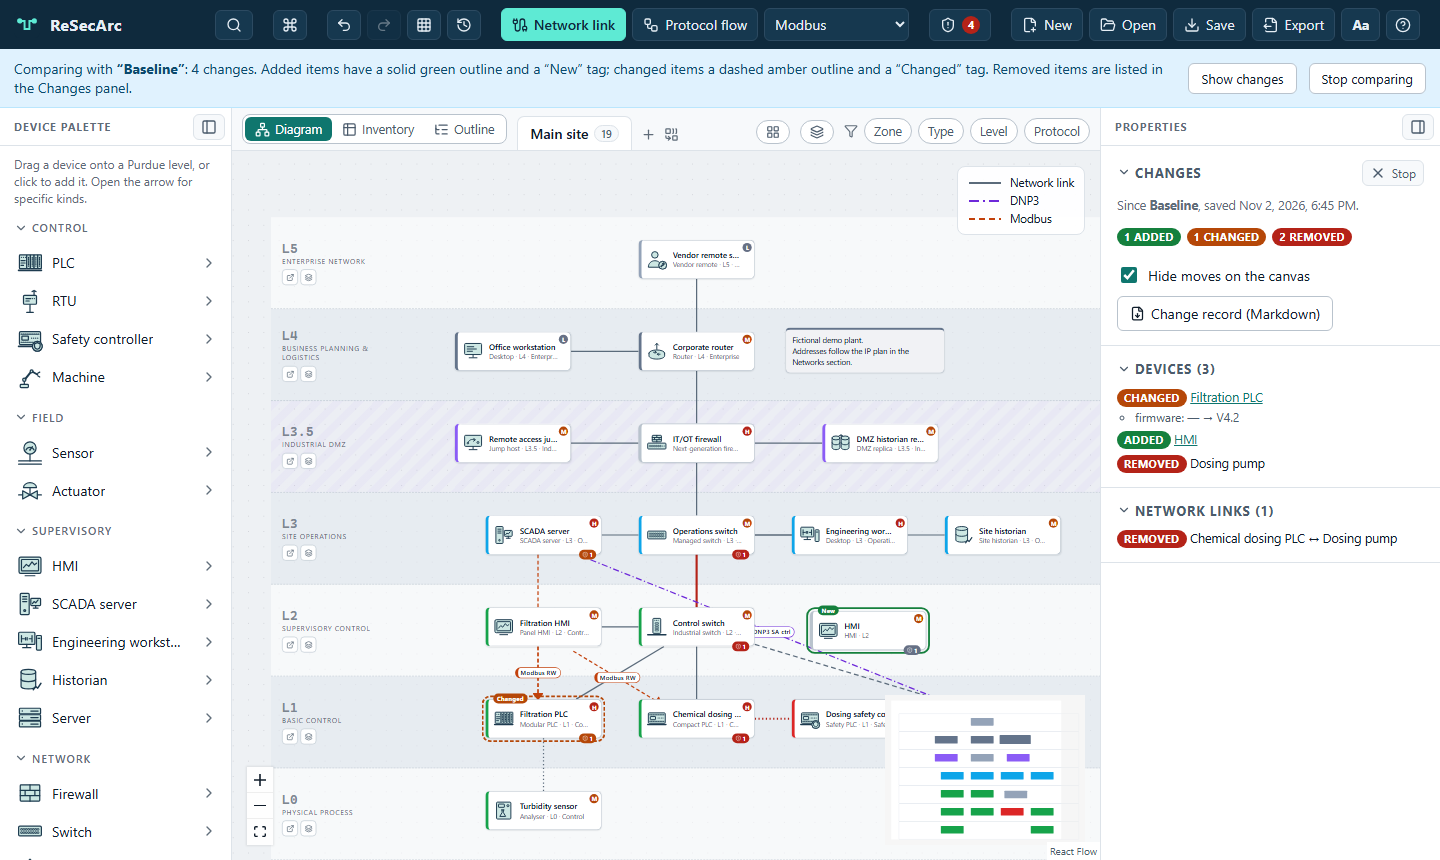
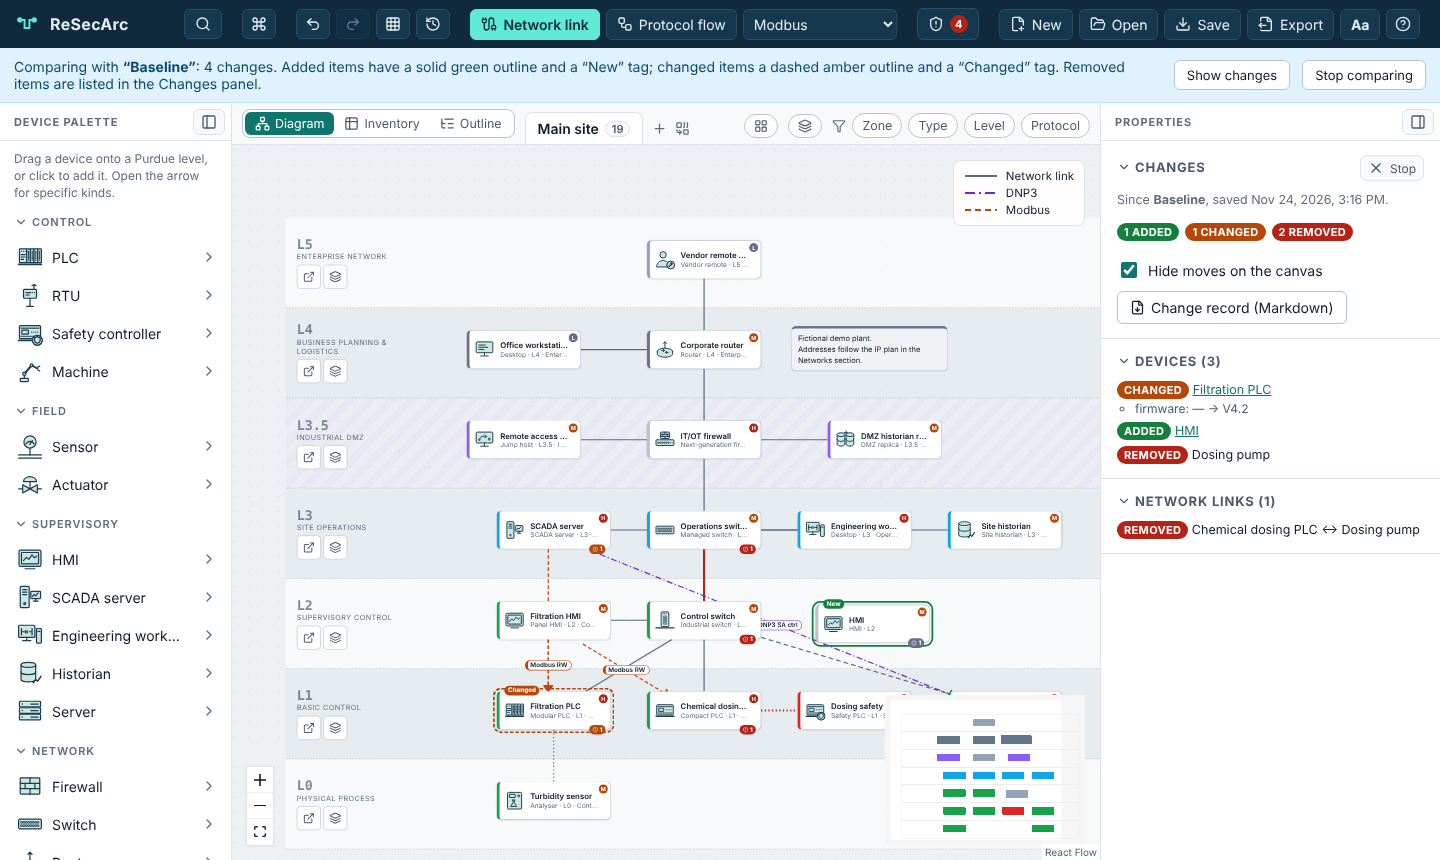
Retake the README screenshots from the current build
All 11 images in docs/images/ were retaken with npm run readme:images
(same file names, sizes and scenes) and checked by eye against their
alt text. They now show the larger lane buttons and the room left for
the zoom controls from #18/#19. The animated demo was recorded on
2026-11-22, after those changes, so it is unchanged.

Closes #50.

diff --git a/PROJECT_STATUS.md b/PROJECT_STATUS.md
@@ -110,7 +110,7 @@ Work is committed on feature branches, **pushed to `origin`** (github.com/vijayk
 - `e2e/perf.spec.ts` (1,000 devices, 30 s limit) runs in its own Playwright project, `perf`, which starts only after the `chromium` and `tablet` projects pass (issue #15), so it no longer competes for the CPU. If any other browser test fails, the benchmark is reported as "did not run"; run it alone with `npx playwright test --project=perf --no-deps`. The light-theme a11y scan has also timed out on the owner's PC under full parallel load; watch whether that persists. If `npm ci` fails with EPERM on a native build tool (`esbuild.exe` before Vite 8; Rolldown or Lightning CSS binaries now), an old `vite preview` on port 4173 is still running; close it first.
 - The toolbar is over-full at 1440 px and below. Since M24 the brand name is cut with an ellipsis instead of being drawn over the Find button, and below 1600 px the words "Find" and "Security" are hidden visually (kept for screen readers). At 1280 px only the logo is left. A toolbar rework (for example, moving the connect-as controls to the canvas bar) would fix it properly. The canvas bar is tight too: below 1600 px the words "Tidy" and "View" are hidden visually, and with several sites the tabs scroll while the add and merge buttons stay visible.
 - Below 900px the palette and properties panel become slide-over drawers. On touch screens a palette item can be tapped, or dragged with a finger (`src/ui/touchDrag.ts`, issue #17): a sideways slide starts the drag, a floating copy follows the finger, and on release over the canvas an ordinary `drop` event with the same data as a mouse drag is dispatched, so the canvas's own drop rules apply. Up-and-down still scrolls the palette (`touch-action: pan-y` on coarse pointers). It needs the palette beside the canvas, so it doesn't work in drawer mode; tap there.
-- The screenshots in `docs/images/` are retaken from the current build with `npm run readme:images` (2026-11-02); run it again after visible interface changes. The animated demo at the top of the README, `docs/images/demo.gif` (about 19 s, 960 × 540, under 1 MB), is recorded with `npm run readme:demo` (`e2e/readme-demo.ts`, 2026-11-22). It captures frames with Chrome's screencast and builds the GIF with `ffmpeg`, which must be on the PATH; Playwright's own video recording is not used because it needs a separate ffmpeg download. Re-record it after visible changes to the canvas, the Security panel or the attack paths.
+- The screenshots in `docs/images/` are retaken from the current build with `npm run readme:images` (2026-11-24, issue #50); run it again after visible interface changes. The animated demo at the top of the README, `docs/images/demo.gif` (about 19 s, 960 × 540, under 1 MB), is recorded with `npm run readme:demo` (`e2e/readme-demo.ts`, 2026-11-22). It captures frames with Chrome's screencast and builds the GIF with `ffmpeg`, which must be on the PATH; Playwright's own video recording is not used because it needs a separate ffmpeg download. Re-record it after visible changes to the canvas, the Security panel or the attack paths.
 - The lane label buttons (open a level tab, stack) are drawn on the canvas. Below 100 % zoom they are sized up so they stay at least 24 px on screen down to about 30 % zoom; further out they are as large as their lane allows (`src/ui/canvas/laneButtons.ts`, issue #19); the command palette has the same actions. Framing a site and the Fit button leave room on the left for the zoom and fit buttons, so they no longer cover the lowest lanes' buttons on a tablet (issue #18).
 - Chromium's synthetic drag in Playwright can't drive the palette's HTML5 drag-and-drop. In automated checks, dispatch `DragEvent`s on the canvas pane instead. Finger drags are driven with CDP `Input.dispatchTouchEvent` (see `fingerDrag` in `e2e/tablet.spec.ts`).
 

diff --git a/FILEMAP.md b/FILEMAP.md
@@ -1,6 +1,6 @@
 # FILEMAP
 
-*Auto-generated by filemap_watcher.py at 2026-11-24 14:49:55. Do not edit by hand.*
+*Auto-generated by filemap_watcher.py at 2026-11-24 15:17:30. Do not edit by hand.*
 
 **36 directories, 303 files**
 
@@ -23,18 +23,18 @@
   - 📄 PULL_REQUEST_TEMPLATE.md — 1.0 KB, 2026-11-08 17:34
 - 📁 **docs/**
   - 📁 **images/**
-    - 📄 attack-paths.png — 235.2 KB, 2026-11-04 11:02
-    - 📄 compare.png — 207.1 KB, 2026-11-04 11:02
-    - 📄 dark-multisite.png — 192.0 KB, 2026-11-04 11:02
+    - 📄 attack-paths.png — 299.9 KB, 2026-11-24 15:16
+    - 📄 compare.png — 251.8 KB, 2026-11-24 15:16
+    - 📄 dark-multisite.png — 233.1 KB, 2026-11-24 15:16
     - 📄 demo.gif — 834.9 KB, 2026-11-22 04:22
-    - 📄 device-panel.png — 214.0 KB, 2026-11-04 11:02
-    - 📄 diagram.png — 218.6 KB, 2026-11-04 11:02
-    - 📄 inventory.png — 158.2 KB, 2026-11-04 11:02
-    - 📄 ip-plan.png — 134.6 KB, 2026-11-04 11:02
-    - 📄 level-tab.png — 191.7 KB, 2026-11-04 11:02
-    - 📄 security.png — 250.2 KB, 2026-11-04 11:02
-    - 📄 stacks.png — 166.7 KB, 2026-11-04 11:02
-    - 📄 templates.png — 153.4 KB, 2026-11-04 11:02
+    - 📄 device-panel.png — 249.4 KB, 2026-11-24 15:16
+    - 📄 diagram.png — 256.5 KB, 2026-11-24 15:16
+    - 📄 inventory.png — 224.6 KB, 2026-11-24 15:16
+    - 📄 ip-plan.png — 199.8 KB, 2026-11-24 15:16
+    - 📄 level-tab.png — 231.5 KB, 2026-11-24 15:16
+    - 📄 security.png — 320.8 KB, 2026-11-24 15:16
+    - 📄 stacks.png — 221.1 KB, 2026-11-24 15:16
+    - 📄 templates.png — 205.8 KB, 2026-11-24 15:16
   - 📁 **roadmap/**
     - 📄 security-analysis.md — 16.6 KB, 2026-11-04 11:02
   - 📄 data-model.md — 9.7 KB, 2026-11-04 11:02
@@ -337,7 +337,7 @@
 - 📄 package.json — 1.6 KB, 2026-11-21 08:42
 - 📄 playwright.config.ts — 1.5 KB, 2026-11-08 17:34
 - 📄 playwright.readme.config.ts — 529 B, 2026-11-21 08:42
-- 📄 PROJECT_STATUS.md — 27.5 KB, 2026-11-24 14:49
+- 📄 PROJECT_STATUS.md — 27.5 KB, 2026-11-24 15:17
 - 📄 README.md — 88.0 KB, 2026-11-24 14:49
 - 📄 SECURITY.md — 2.1 KB, 2026-11-08 17:34
 - 📄 SUPPORT.md — 1.3 KB, 2026-11-08 17:34
